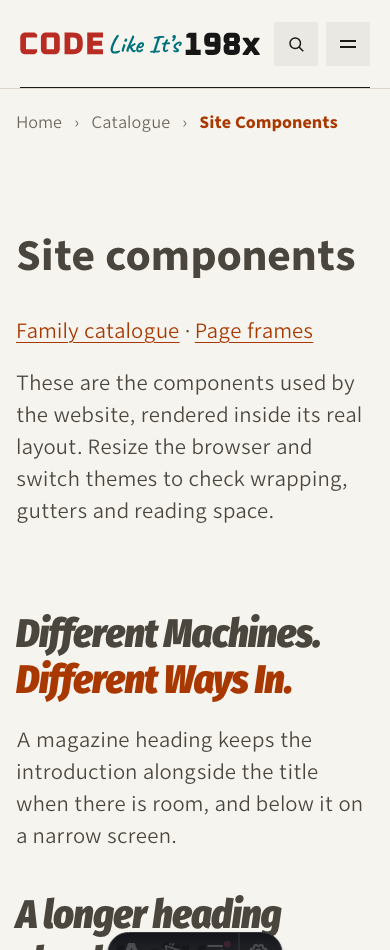
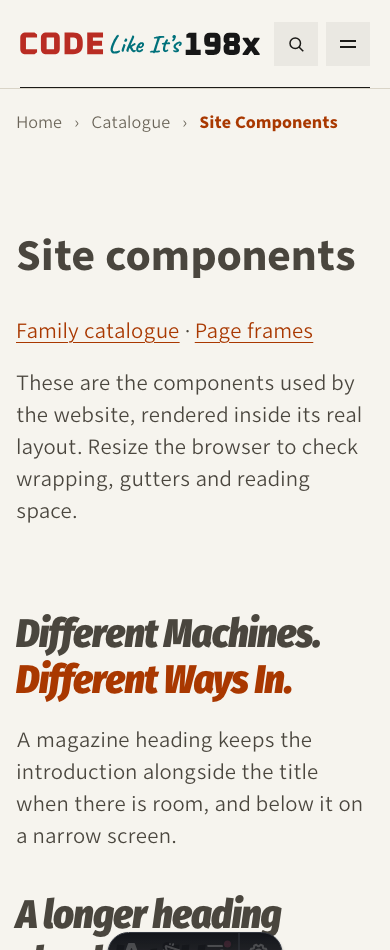
Guard approved reading-page spacing against regression

Changed region(s): [[0.0308, 0.4579, 0.9231, 0.5495]]

diff --git a/tests/site-components.spec.ts b/tests/site-components.spec.ts
@@ -3,6 +3,19 @@ import { test, expect } from '@playwright/test';
 for (const route of ['about', 'standards', 'press', 'teaching']) {
   test(`${route} keeps its reading column and contents rail aligned`, async ({ page, isMobile }) => {
     await page.goto(`/${route}/`);
+    const frame = page.locator('main > [data-page-frame]:not(.masthead-frame)');
+    await expect(frame).toHaveCount(1);
+    const spacing = await frame.evaluate(element => {
+      const style = getComputedStyle(element);
+      const box = element.getBoundingClientRect();
+      const heading = element.querySelector('h1')!.getBoundingClientRect();
+      return { left: box.x, right: innerWidth - box.right, gutter: parseFloat(style.paddingLeft), opening: parseFloat(style.paddingTop), ending: parseFloat(style.paddingBottom), headingInset: heading.x - box.x };
+    });
+    expect(spacing.left).toBeCloseTo(spacing.right, 0);
+    expect(spacing.gutter).toBeGreaterThanOrEqual(16);
+    expect(spacing.headingInset).toBeCloseTo(spacing.gutter, 0);
+    expect(spacing.opening).toBe(route === 'press' ? 0 : 40);
+    expect(spacing.ending).toBeGreaterThanOrEqual(64);
     const body = page.locator('.reading-body');
     const rail = page.locator('.reading-toc');
     const firstSection = body.locator(':scope > section').first();
